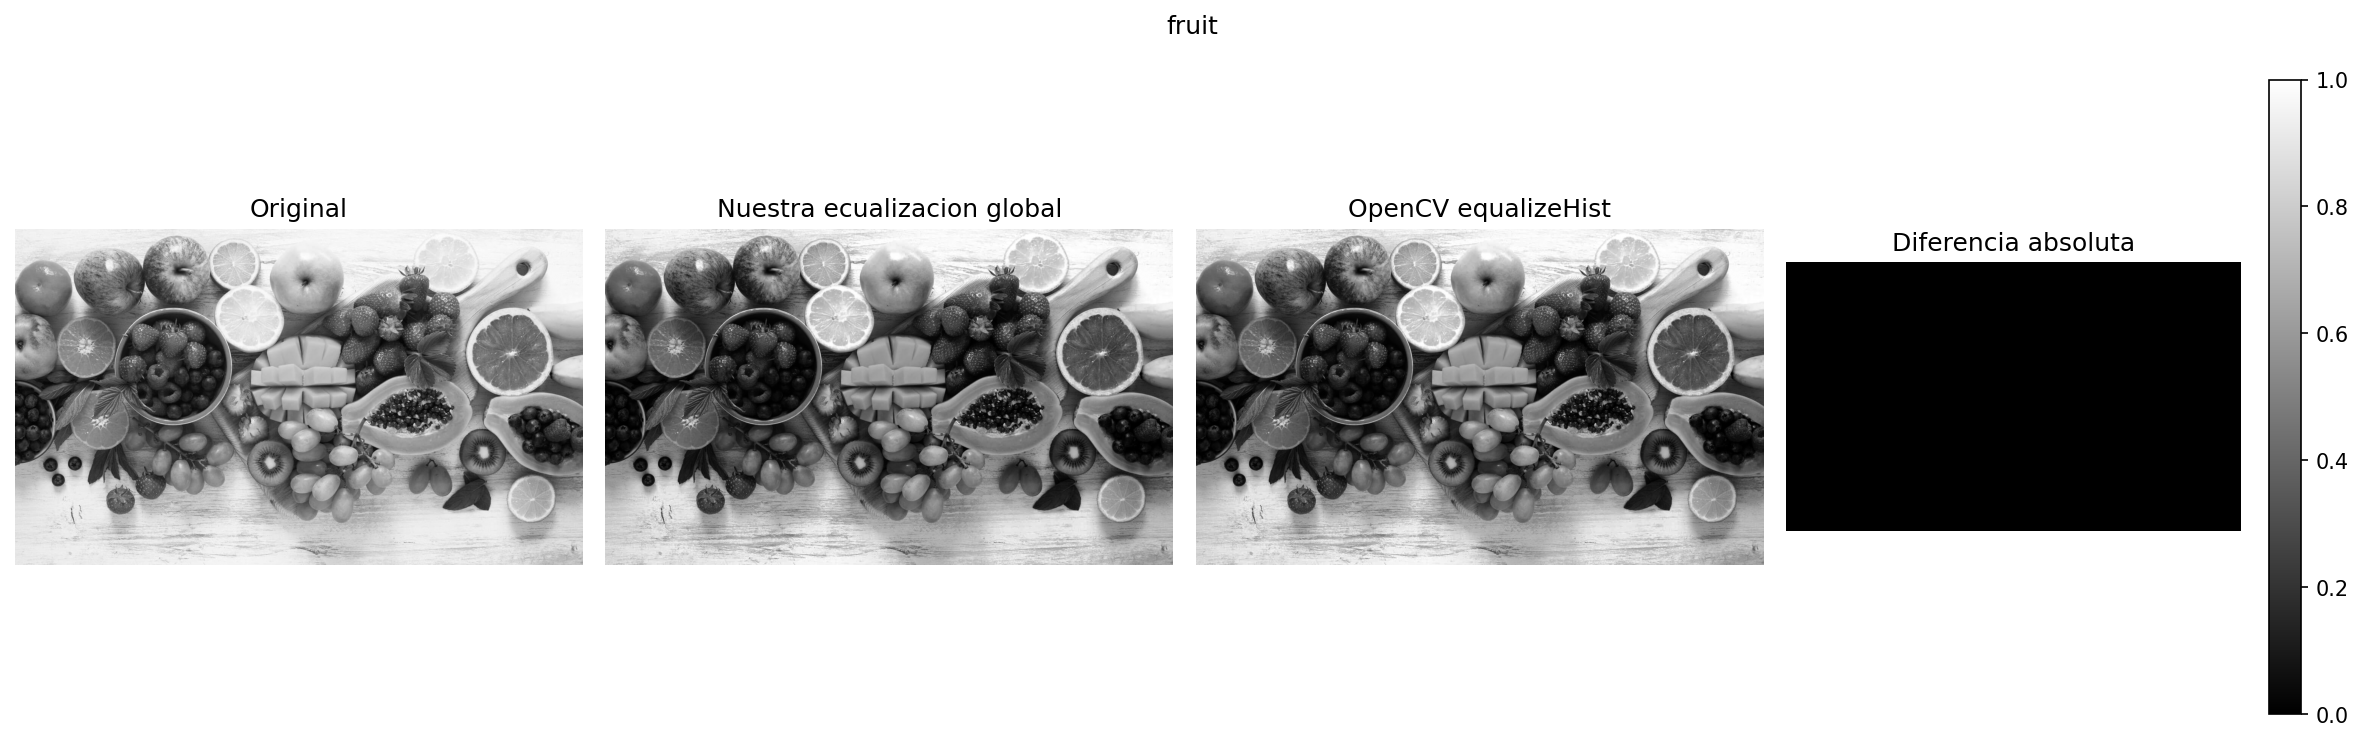
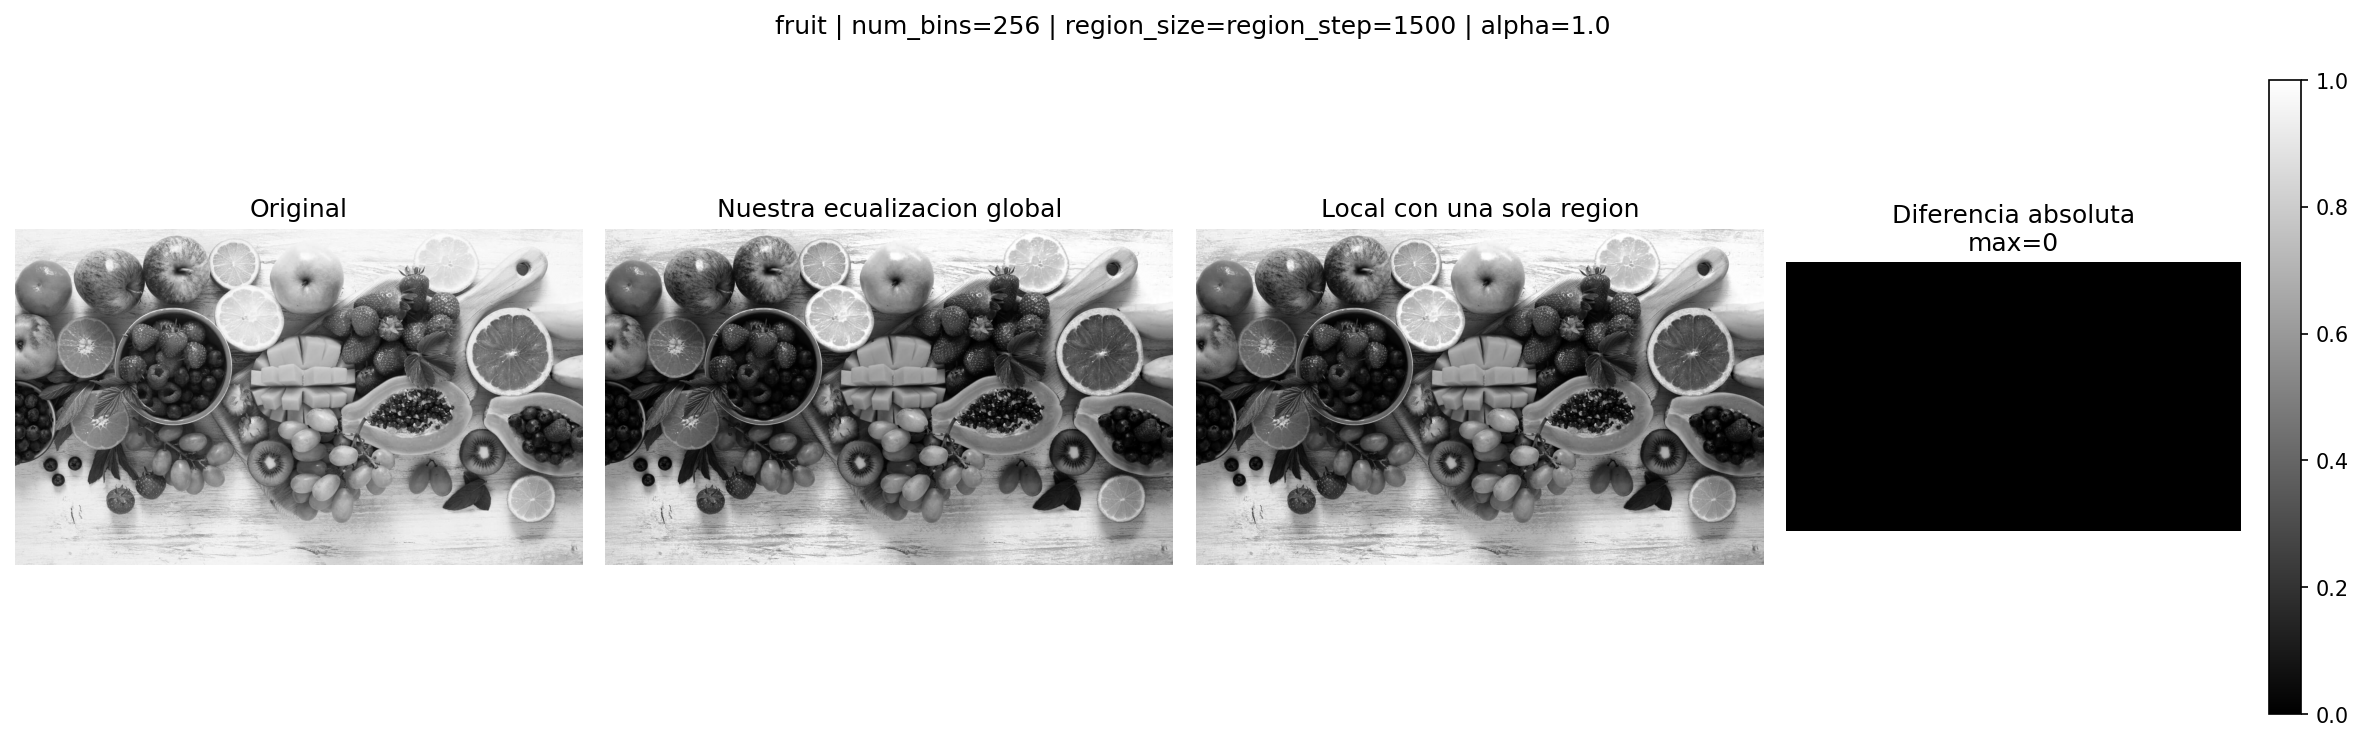
fix p2

diff --git a/experiments/test_p2_global_equivalence.py b/experiments/test_p2_global_equivalence.py
@@ -4,7 +4,10 @@ import cv2
 import matplotlib.pyplot as plt
 import numpy as np
 
-from src.pregunta2 import global_equalization_own
+from src.pregunta2 import (
+    global_equalization_own,
+    local_histogram_equalization
+)
 
 
 def run_global_equivalence(
@@ -27,14 +30,19 @@ def run_global_equivalence(
         num_bins=256
     )
 
-    # solo como ref
-    equalized_opencv = cv2.equalizeHist(
-        image_gray
+    single_region_size = max(image_gray.shape)
+
+    equalized_local = local_histogram_equalization(
+        image_gray,
+        region_size=single_region_size,
+        region_step=single_region_size,
+        num_bins=256,
+        contrast_strength=1.0
     )
 
     difference = np.abs(
         equalized_own.astype(np.int16)
-        - equalized_opencv.astype(np.int16)
+        - equalized_local.astype(np.int16)
     )
 
     maximum_difference = (
@@ -72,6 +80,11 @@ def run_global_equivalence(
     print(
         "Image shape:",
         image_gray.shape
+    )
+
+    print(
+        "Single region size / step:",
+        single_region_size
     )
 
     print(
@@ -123,14 +136,14 @@ def run_global_equivalence(
     )
 
     axes[2].imshow(
-        equalized_opencv,
+        equalized_local,
         cmap="gray",
         vmin=0,
         vmax=255
     )
 
     axes[2].set_title(
-        "OpenCV equalizeHist"
+        "Local con una sola region"
     )
 
     difference_plot = axes[3].imshow(
@@ -141,7 +154,7 @@ def run_global_equivalence(
     )
 
     axes[3].set_title(
-        "Diferencia absoluta"
+        f"Diferencia absoluta\nmax={maximum_difference}"
     )
 
     figure.colorbar(
@@ -153,7 +166,8 @@ def run_global_equivalence(
         axis.axis("off")
 
     figure.suptitle(
-        image_name
+        f"{image_name} | num_bins=256 | "
+        f"region_size=region_step={single_region_size} | alpha=1.0"
     )
 
     figure.tight_layout()
@@ -238,8 +252,8 @@ def main():
     print()
     print("----------------------------------------")
     print(
-        "Las dos imagenes reproducen "
-        "exactamente equalizeHist: OK"
+        "Una sola region reproduce la ecualizacion "
+        "global propia en las dos imagenes: OK"
     )
     print("----------------------------------------")
 
